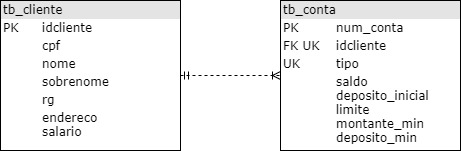
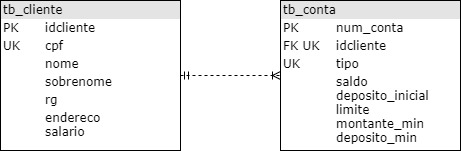
Validação de CPF duplicado

diff --git a/src/view/MainWindowView.java b/src/view/MainWindowView.java
@@ -79,7 +79,7 @@ public class MainWindowView extends javax.swing.JFrame {
             .addGroup(clientesView1Layout.createSequentialGroup()
                 .addContainerGap()
                 .addComponent(clienteView5, javax.swing.GroupLayout.PREFERRED_SIZE, javax.swing.GroupLayout.DEFAULT_SIZE, javax.swing.GroupLayout.PREFERRED_SIZE)
-                .addContainerGap(7, Short.MAX_VALUE))
+                .addContainerGap(javax.swing.GroupLayout.DEFAULT_SIZE, Short.MAX_VALUE))
         );
         clientesView1Layout.setVerticalGroup(
             clientesView1Layout.createParallelGroup(javax.swing.GroupLayout.Alignment.LEADING)
@@ -98,7 +98,7 @@ public class MainWindowView extends javax.swing.JFrame {
             .addGroup(manipularView1Layout.createSequentialGroup()
                 .addGap(38, 38, 38)
                 .addComponent(contaView2, javax.swing.GroupLayout.PREFERRED_SIZE, javax.swing.GroupLayout.DEFAULT_SIZE, javax.swing.GroupLayout.PREFERRED_SIZE)
-                .addContainerGap(66, Short.MAX_VALUE))
+                .addContainerGap(110, Short.MAX_VALUE))
         );
         manipularView1Layout.setVerticalGroup(
             manipularView1Layout.createParallelGroup(javax.swing.GroupLayout.Alignment.LEADING)
@@ -119,7 +119,7 @@ public class MainWindowView extends javax.swing.JFrame {
         );
         layout.setVerticalGroup(
             layout.createParallelGroup(javax.swing.GroupLayout.Alignment.LEADING)
-            .addComponent(jTabbedPane1, javax.swing.GroupLayout.Alignment.TRAILING, javax.swing.GroupLayout.DEFAULT_SIZE, 510, Short.MAX_VALUE)
+            .addComponent(jTabbedPane1, javax.swing.GroupLayout.Alignment.TRAILING, javax.swing.GroupLayout.PREFERRED_SIZE, 510, Short.MAX_VALUE)
         );
 
         pack();

diff --git a/src/view/ClienteView.java b/src/view/ClienteView.java
@@ -548,10 +548,11 @@ public class ClienteView extends javax.swing.JPanel {
     }
     
     private void btnIncluirActionPerformed(java.awt.event.ActionEvent evt) {//GEN-FIRST:event_btnIncluirActionPerformed
+
         if (!validacoes())
             return;
 
-        ClienteController clienteController = new ClienteController();
+        ClienteController clienteController = new ClienteController(this);
         Cliente cliente = new Cliente(nome.getText(), sobrenome.getText(), rg.getText(), cpf.getText(), endereco.getText(), Double.parseDouble(salario.getText()));
         clienteController.prepareInsert(cliente);
     }//GEN-LAST:event_btnIncluirActionPerformed
@@ -565,7 +566,7 @@ public class ClienteView extends javax.swing.JPanel {
             tableModel.removeLinha(0);
         }
         
-        ClienteController clienteController = new ClienteController();
+        ClienteController clienteController = new ClienteController(this);
         List<Cliente> clientes = clienteController.prepareFilter(filtro.getText(), ordenarPor.getSelectedIndex());
         
         Collections.sort(clientes);
@@ -622,7 +623,7 @@ public class ClienteView extends javax.swing.JPanel {
         int row = source.rowAtPoint( evt.getPoint() );
         String cpf = (String) source.getModel().getValueAt(row, 3);
         
-        ClienteController clienteController = new ClienteController();
+        ClienteController clienteController = new ClienteController(this);
         List<Cliente> clientes = clienteController.prepareFilter(cpf, ordenarPor.getSelectedIndex());
         Cliente cliente = clientes.get(0);
         this.nome.setText("");

diff --git a/src/controller/ContaController.java b/src/controller/ContaController.java
@@ -1,9 +1,11 @@
 package controller;
 
 import java.sql.SQLException;
+import javax.swing.JOptionPane;
 import model.ContaCorrente;
 import model.ContaInvestimento;
 import model.dao.ContaDao;
+import view.ContaView;
 
 /**
  *
@@ -11,7 +13,7 @@ import model.dao.ContaDao;
  */
 public class ContaController {
     
-    public void prepareInsertContaCorrente(ContaCorrente cc) {       
+    public void prepareInsertContaCorrente(ContaCorrente cc, ContaView cv) throws SQLException {       
          try {
              ContaDao cd = new ContaDao();
              cd.insertContaCorrente(cc);
@@ -19,16 +21,18 @@ public class ContaController {
              dao.insert(contato);
              model.adicionaContato(contato);*/
          } catch (SQLException e) {
-            throw new RuntimeException(e);
+            if (e.getMessage().contains("uk"))
+                JOptionPane.showMessageDialog(cv, "Esse cliente já possui uma Conta Corrente");
          }
     }
     
-    public void prepareInsertContaInvestimento(ContaInvestimento ci) throws SQLException{
+    public void prepareInsertContaInvestimento(ContaInvestimento ci, ContaView cv) throws SQLException{
         try{
             ContaDao cd = new ContaDao();
             cd.insertContaInvestimento(ci);
-        } catch (SQLException e) {
-            throw new RuntimeException(e);
+        } catch (SQLException e) {           
+            if (e.getMessage().contains("uk"))
+                JOptionPane.showMessageDialog(cv, "Esse cliente já possui uma Conta Investimento");
         }
         
     }

diff --git a/src/view/ContaView.java b/src/view/ContaView.java
@@ -17,6 +17,7 @@ import java.util.List;
 import java.util.logging.Level;
 import java.util.logging.Logger;
 import javax.swing.DefaultComboBoxModel;
+import javax.swing.JOptionPane;
 import model.Cliente;
 import model.ContaCorrente;
 import model.ContaInvestimento;
@@ -293,10 +294,12 @@ public class ContaView extends javax.swing.JPanel {
             } catch (SQLException ex) {
                 System.out.println("Problema ao busca id do cliente" + ex.getMessage());
             }
-            contaController.prepareInsertContaCorrente(cc);
+            
+            
             //gera o numero da conta
             ContaDao contaDao = new ContaDao();
-            try {
+            try {      
+                contaController.prepareInsertContaCorrente(cc, this);
                 numConta = contaDao.getNumConta(clienteDao.clienteNomeSobrenome(nome, sobrenome).getIdCliente());
             } catch (SQLException ex) {
                 System.out.println("Problema ao gerar numero da conta" + ex.getMessage());
@@ -334,7 +337,7 @@ public class ContaView extends javax.swing.JPanel {
             ClienteDao clienteDao = new ClienteDao();
             try {
                 ci.setCliente(clienteDao.clienteNomeSobrenome(nome, sobrenome));
-                contaController.prepareInsertContaInvestimento(ci);
+                contaController.prepareInsertContaInvestimento(ci, this);
             } catch (SQLException ex) {
                 System.out.println("Problema ao busca id do cliente" + ex.getMessage());
             }

diff --git a/src/controller/ClienteController.java b/src/controller/ClienteController.java
@@ -8,21 +8,30 @@ package controller;
 import java.sql.SQLException;
 import java.util.Collections;
 import java.util.List;
+import javax.swing.JOptionPane;
 import model.Cliente;
 import model.dao.ClienteDao;
+import view.ClienteView;
 
 /**
  *
  * @author rafae
  */
 public class ClienteController {
+    private ClienteView cv;
+    public ClienteController(ClienteView cv){
+        this.cv = cv;
+    }
+    
+
     
     public void prepareInsert(Cliente cliente) {
         try {
             ClienteDao clienteDao = new ClienteDao();
             clienteDao.insert(cliente);
         } catch (SQLException e) {
-            throw new RuntimeException(e);
+            if (e.getMessage().contains("uk"))
+                JOptionPane.showMessageDialog(cv, "Esse cpf já foi cadastrado!");
         }
     }
 
@@ -51,7 +60,12 @@ public class ClienteController {
             ClienteDao clienteDao = new ClienteDao();
             clienteDao.update(cliente);
         } catch (SQLException e) {
-            throw new RuntimeException(e);
+            if (e.getMessage().contains("uk"))
+                JOptionPane.showMessageDialog(cv, "Esse cpf já foi cadastrado!");
         }
+    }
+    
+    public ClienteController(){
+        
     }
 }

diff --git a/src/model/dao/ContaDao.java b/src/model/dao/ContaDao.java
@@ -67,8 +67,6 @@ public class ContaDao {
             stmt.setDouble(4, cc.getDepositoInicial());
             stmt.setDouble(5, cc.getLimite());
             stmt.execute();
-        } catch (SQLException e) {
-            throw new RuntimeException(e);
         } finally {
             stmt.close();
             con.close();
@@ -89,9 +87,7 @@ public class ContaDao {
             stmt.setDouble(5, ci.getMontanteMinimo());
             stmt.setDouble(6, ci.getDepositoMinimo());
             stmt.execute();
-        } catch (SQLException e) {
-            throw new RuntimeException(e);
-        } finally {
+        }finally {
             stmt.close();
             con.close();
         }

diff --git a/src/model/dao/ClienteDao.java b/src/model/dao/ClienteDao.java
@@ -34,8 +34,6 @@ public class ClienteDao {
             stmt.setString(5, cliente.getEndereco());
             stmt.setDouble(6, cliente.getSalario());
             stmt.execute();
-        } catch (SQLException e) {
-            throw new RuntimeException(e);
         } finally {
             stmt.close();
             con.close();
@@ -124,8 +122,6 @@ public class ClienteDao {
             stmt.setInt(7, cliente.getIdCliente());
             
             stmt.executeUpdate();
-        } catch (SQLException e) {
-            throw new RuntimeException(e);
         } finally {
             stmt.close();
             con.close();
